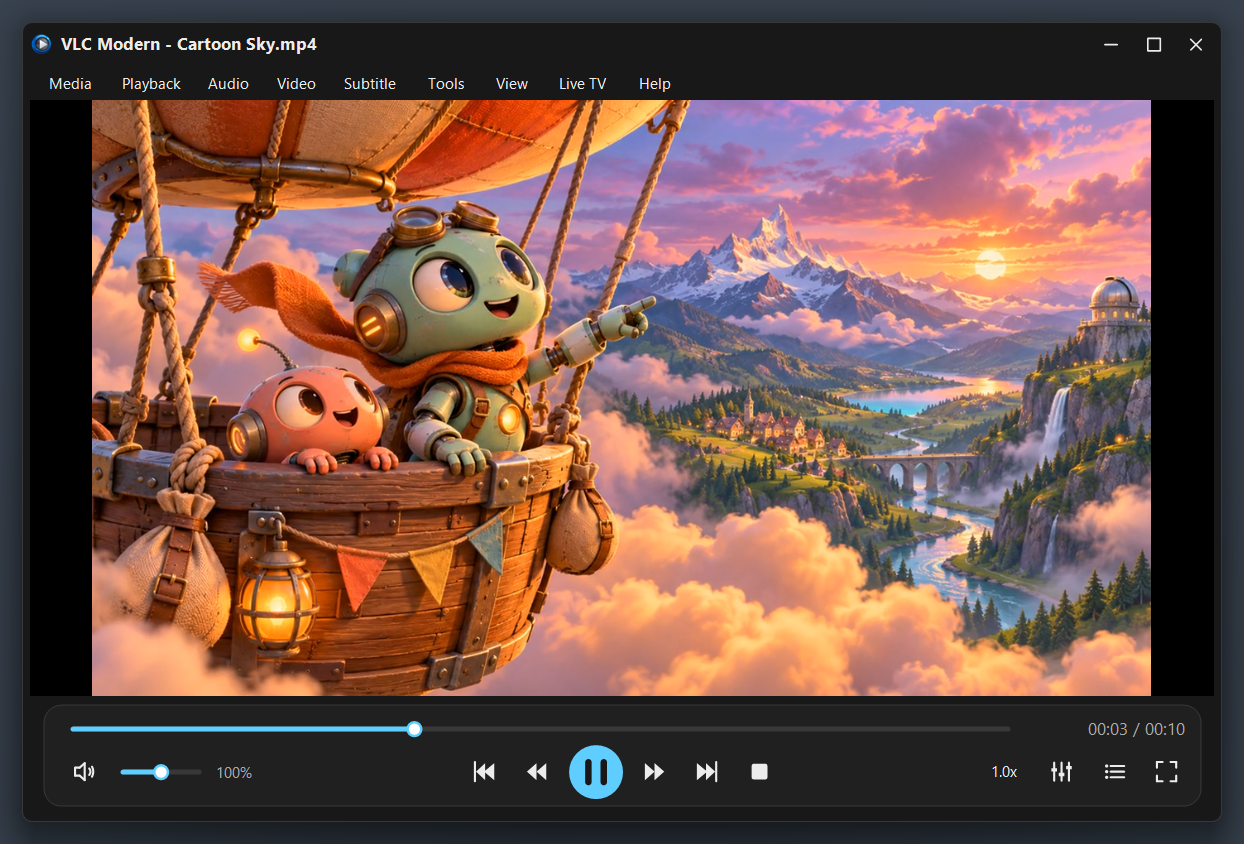
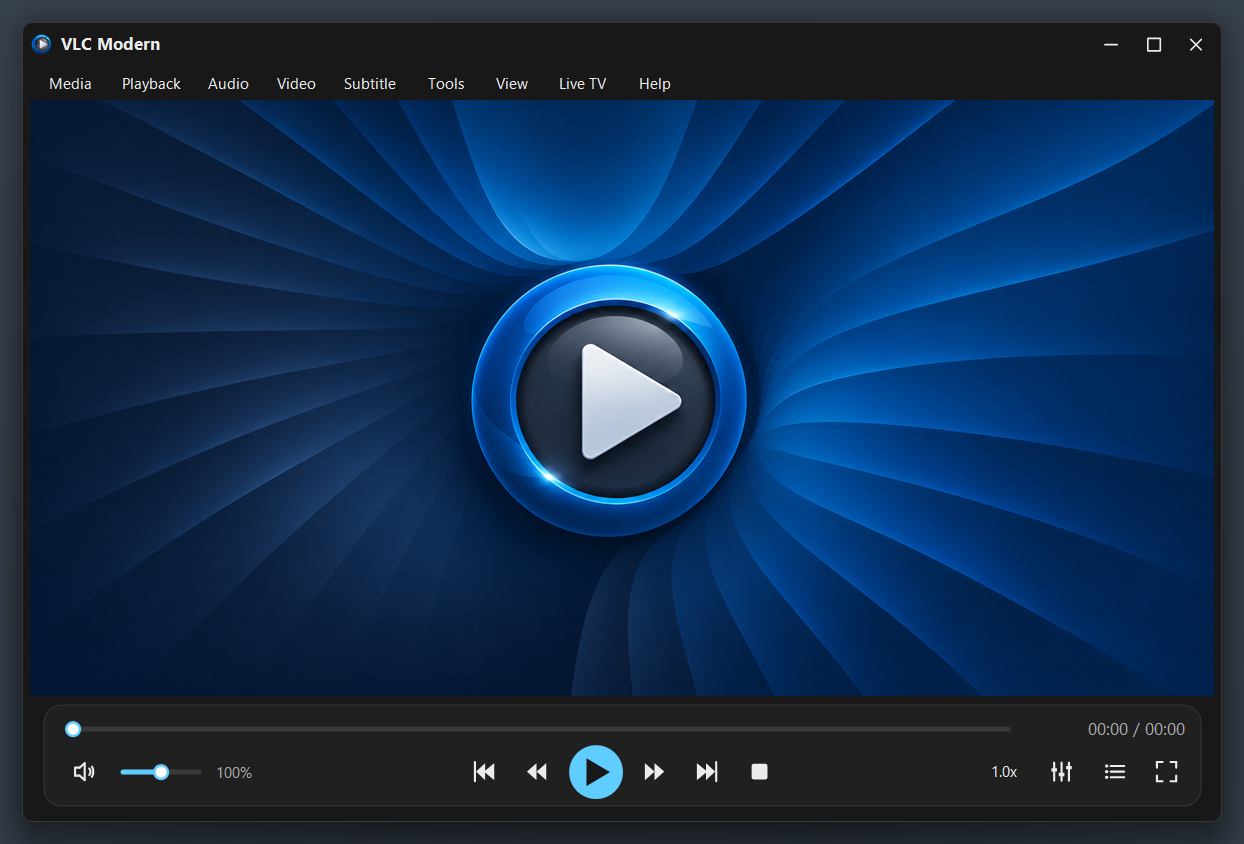
Add Windows download and lead with the VLC Modern splash screen

diff --git a/README_AR.md b/README_AR.md
@@ -7,11 +7,14 @@
 
 ![واجهة VLC Modern الرئيسية](docs/screenshots/player.png)
 
-**واجهة المشغّل.** مساحة العرض بالأعلى، وأسفلها شريط التقدّم وأزرار التشغيل والصوت والسرعة وقائمة التشغيل وملء الشاشة.
+**واجهة المشغّل.** شاشة البداية بهوية VLC Modern، وأسفلها شريط التحكم بحوافه المستديرة.
 
 | فتح الوسائط | الإعدادات | المؤثرات الصوتية |
 | --- | --- | --- |
-| ![نافذة فتح الوسائط](docs/screenshots/open-media.png) | ![نافذة الإعدادات](docs/screenshots/preferences.png) | ![الإكولايزر](docs/screenshots/equalizer.png) |
+| ![نافذة فتح<p align="center"><a href="https://github.com/Diagoo1/VLC-Modern/releases/download/v0.1.0/VLC-Modern-v0.1.0-Windows-x86.zip"><img alt="تحميل نسخة ويندوز (ZIP)" src="https://img.shields.io/badge/Download-Windows%20ZIP-1473E6?style=for-the-badge"></a></p>
+<p align="center"><a href="https://github.com/Diagoo1/VLC-Modern/releases/download/v0.1.0/VLC-Modern-v0.1.0-Windows-x86.zip">تحميل نسخة ويندوز (ZIP)</a> · <a href="https://github.com/Diagoo1/VLC-Modern/releases/tag/v0.1.0">v0.1.0</a></p>
+
+ الوسائط](docs/screenshots/open-media.png) | ![نافذة الإعدادات](docs/screenshots/preferences.png) | ![الإكولايزر](docs/screenshots/equalizer.png) |
 | بث الشبكة والأقراص وأجهزة الالتقاط. | قائمة جانبية لتنظيم خيارات المشغّل. | إعدادات جاهزة وتحكم في كل نطاق ترددي. |
 
 | قائمة التشغيل | ملء الشاشة | Live TV وIPTV |

diff --git a/README.md b/README.md
@@ -3,13 +3,16 @@
 <p align="center">A native Windows media player built with Delphi, VCL, and LibVLC.</p>
 <p align="center"><a href="README_AR.md">العربية</a> · <a href="#screenshots">Screenshots</a> · <a href="#build-from-source">Build from source</a> · <a href="https://github.com/Diagoo1/VLC-Modern/issues/new">Report an issue</a></p>
 
+<p align="center"><a href="https://github.com/Diagoo1/VLC-Modern/releases/download/v0.1.0/VLC-Modern-v0.1.0-Windows-x86.zip"><img alt="Download for Windows (ZIP)" src="https://img.shields.io/badge/Download-Windows%20ZIP-1473E6?style=for-the-badge"></a></p>
+<p align="center"><a href="https://github.com/Diagoo1/VLC-Modern/releases/download/v0.1.0/VLC-Modern-v0.1.0-Windows-x86.zip">Download for Windows (ZIP)</a> · <a href="https://github.com/Diagoo1/VLC-Modern/releases/tag/v0.1.0">v0.1.0</a></p>
+
 ---
 
 ## Screenshots
 
 ![VLC Modern main player](docs/screenshots/player.png)
 
-**Main player.** A local demo video plays above the seek bar and rounded control dock.
+**Main player.** The VLC Modern splash screen on startup, with the rounded control dock below.
 
 | Opening media | Preferences | Audio effects |
 | --- | --- | --- |

diff --git a/docs/SCREENSHOTS.md b/docs/SCREENSHOTS.md
@@ -8,7 +8,7 @@ The playback screenshots show *Cartoon Sky*, a demo clip made from original AI-g
 
 ![Main VLC Modern window](screenshots/player.png)
 
-**Main player.** The video area sits above the seek bar and playback controls, with volume, speed, playlist, and fullscreen actions in the bottom dock.
+**Main player.** The distinctive VLC Modern splash screen appears above the seek bar and rounded playback controls.
 
 ## Opening media
 
